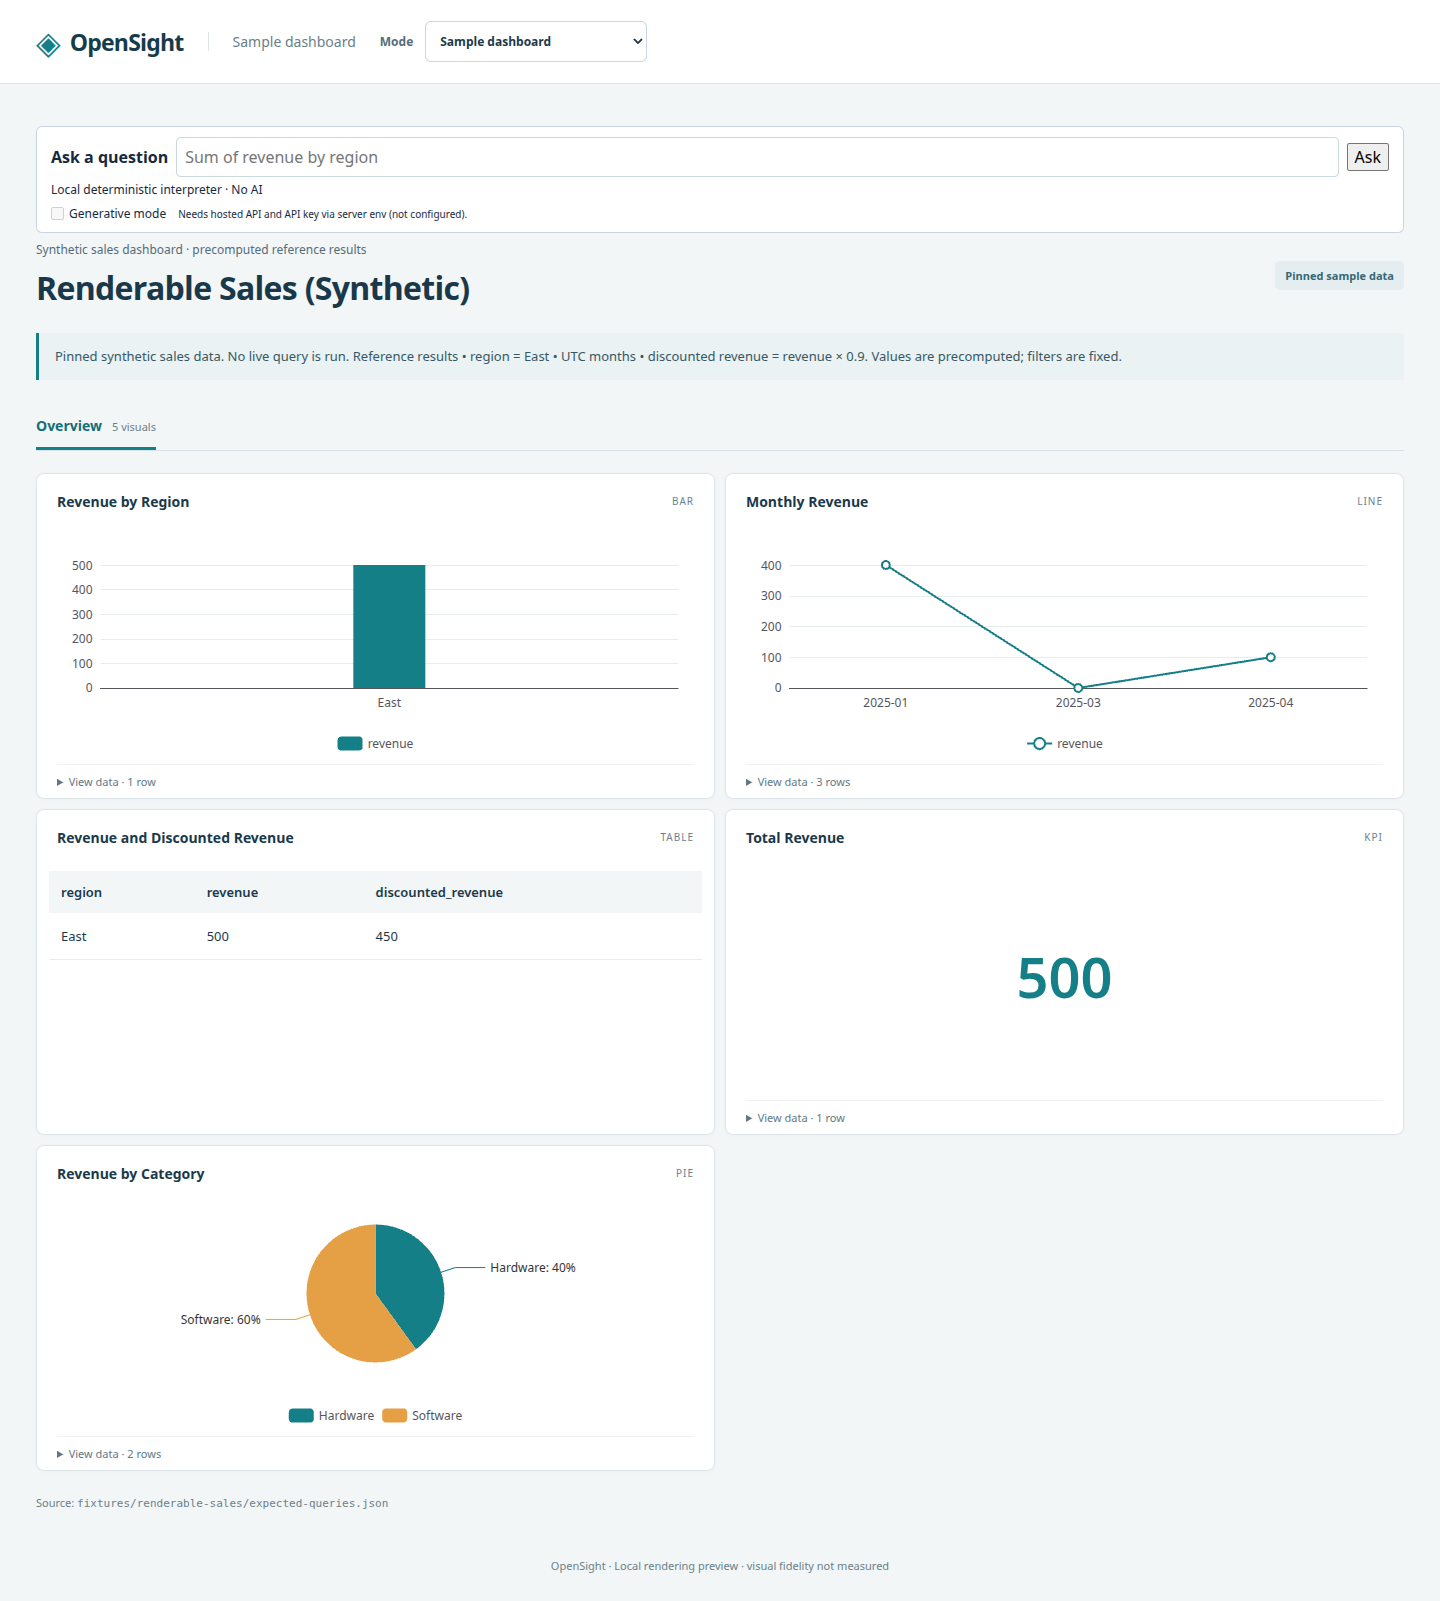
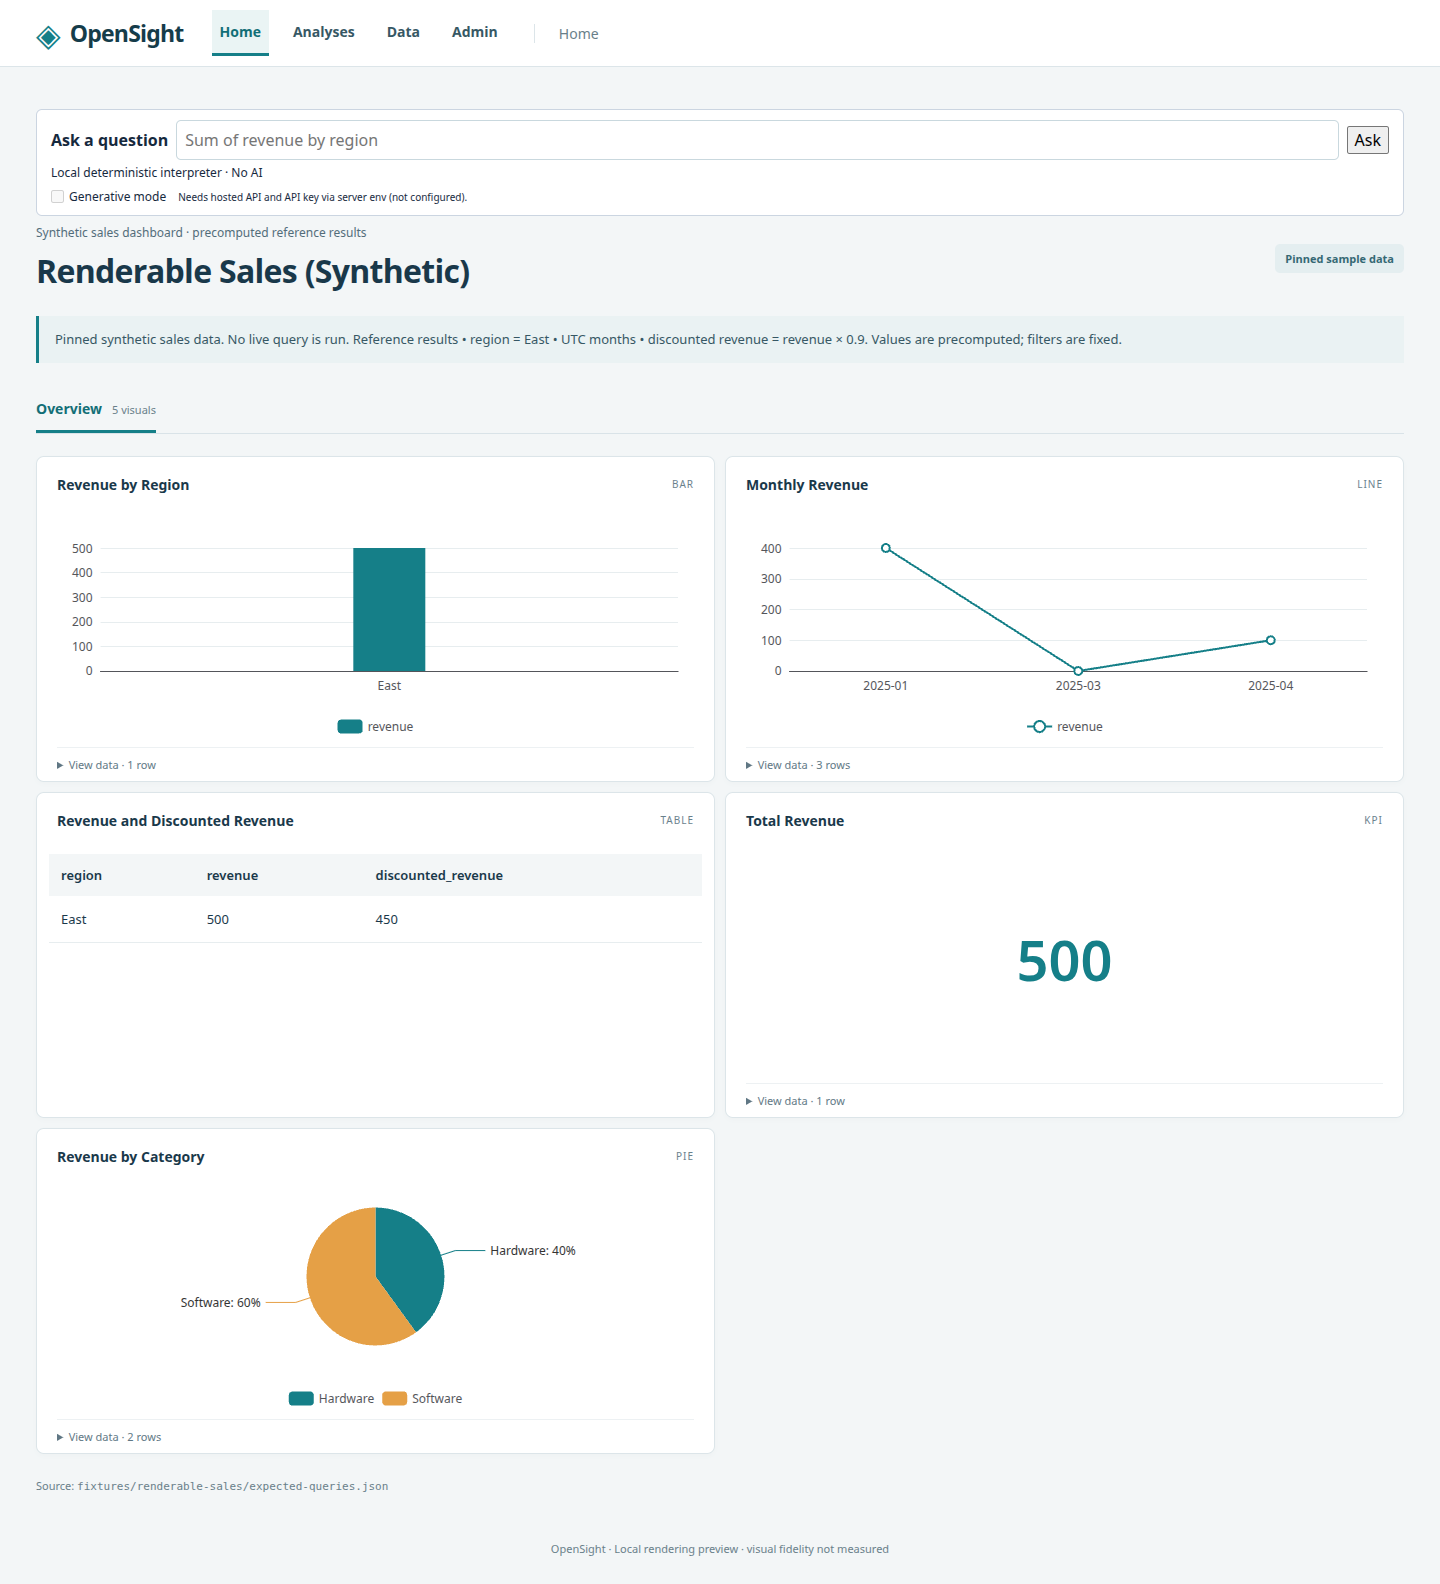
Issue #31: refresh navigation screenshots tour and existing documentation

diff --git a/packages/web/NOTES.md b/packages/web/NOTES.md
@@ -59,9 +59,10 @@ remaining path unchanged. With base `http://127.0.0.1:3000`, the query URL is
 `http://127.0.0.1:3000/api/datasets/sales/query`. Custom reverse proxies must
 preserve this distinction between their mount prefix and the server's routes.
 
-The **Mode** selector starts at `fixtures` on every page load. This mode
-uses only generated assets and makes no definition requests, keeping the static
-demo usable offline. Choose `api` to load the selected example live, or enter an
+The app opens **Home**, the pinned sample dashboard. Developer previews live
+under **Admin → Developer tools**; fixture preview uses only generated assets
+and makes no definition requests, keeping the static demo usable offline.
+Choose **API definition preview** to load the selected example live, or enter an
 analysis/dashboard resource ID and choose **Load definition**. The bundled
 examples target `analyses/renderable-sales/definition` and
 `dashboards/e0772d4e-bd69-444e-a421-cb3f165dbad8/definition`. The real analysis is
@@ -69,7 +70,7 @@ also available as `2f99f271-1f84-4a57-9843-31646734d5c9` (select Analysis).
 There is no list API; the example picker is local, not resource discovery.
 
 Loading and failures are shown explicitly. Use Load definition to retry; errors
-never switch to fixture definitions. Switching mode/example or issuing another
+never switch to fixture definitions. Switching screen/example or issuing another
 request aborts the previous fetch and ignores any late completion. The client
 checks HTTP errors, JSON/envelope validity, matching resource ID and nonempty
 definition `Errors`. It reads the full `Definition` actions, never metadata
@@ -134,7 +135,7 @@ full-width cards in definition order with a notice; valid grids use the existing
 
 ## Author mode (Phase 1b — Builder v0)
 
-Choose **Author** in the Mode selector. Choose a visual type and **Add visual**;
+Choose **Analyses → Author**, or reopen a draft from **My analyses**. Choose a visual type and **Add visual**;
 the new card starts with revenue and a suitable dimension so it previews
 immediately. **Configure** selects a card and exposes its title, chart type and
 field wells. The Fields panel separates the four dimensions (`order_id`,

diff --git a/docs/header-chrome.md b/docs/header-chrome.md
@@ -1,11 +1,11 @@
 # Header chrome
 
-Author mode uses two full-width, square-edged bands: the OpenSight identity,
-editable analysis title and Mode picker above the blue analysis toolbar.
+The shared [app navigation](app-navigation.md) header identifies OpenSight and
+the active product section. Inside Analyses, Author uses two full-width,
+square-edged bands: the editable analysis title above the blue analysis toolbar.
 The toolbar orders File, Edit, Data, Insert, Sheets, Objects, Search, the
 existing Q form, FIT TO WIDTH, PUBLISH, and NEW LOOK. Narrow viewports wrap
-controls without changing their reading or keyboard order. Other modes retain
-their existing header.
+controls without changing their reading or keyboard order.
 
 Native `details`/`summary` menus keep keyboard activation, exclusive opening,
 Escape-to-close with focus restoration, outside-click closure and action

diff --git a/docs/folders-sharing-embedding.md b/docs/folders-sharing-embedding.md
@@ -153,8 +153,8 @@ only the local SDK workspace link and metadata.
 
 ## Static demo
 
-The Mode picker includes **Folders, sharing & embedding**, following the Security
-& namespaces and Schedules & alerts notices. Every action is disabled and marked
+**Admin → Folders, sharing & embedding** sits alongside the Security & namespaces
+and Schedules & alerts notices. Every action is disabled and marked
 **Needs hosted API**. The view states that sample data is public and does not
 simulate folder writes, shares, signing or SSO. The hosted iframe build is separate
 from the offline demo and contains no sample dataset fallback.

diff --git a/docs/author-layout.md b/docs/author-layout.md
@@ -104,8 +104,9 @@ Build the offline, standalone demo with:
 npm run build:demo --workspace @opensight/web
 ```
 
-The local artifact is `packages/web/dist/opensight-demo.html`; choose Author
-in the Mode picker. Build output and screenshots are not committed.
+The local artifact is `packages/web/dist/opensight-demo.html`; choose
+**Analyses → Author**. Build output is ignored; current feature screenshots
+live in `docs/images/`.
 
 ## Look-and-feel gap notes
 

diff --git a/docs/connector-gallery.md b/docs/connector-gallery.md
@@ -1,6 +1,6 @@
 # Data sources gallery
 
-Choose **Data sources** in the Mode selector, then choose one of the 23 connector
+Choose **Data → Data sources**, then choose one of the 23 connector
 cards. Search matches connector names or categories. Source details remain docked
 beside the gallery on desktop and flow below it on narrow screens. All controls
 have labels; cards are keyboard-accessible buttons with selected state.
